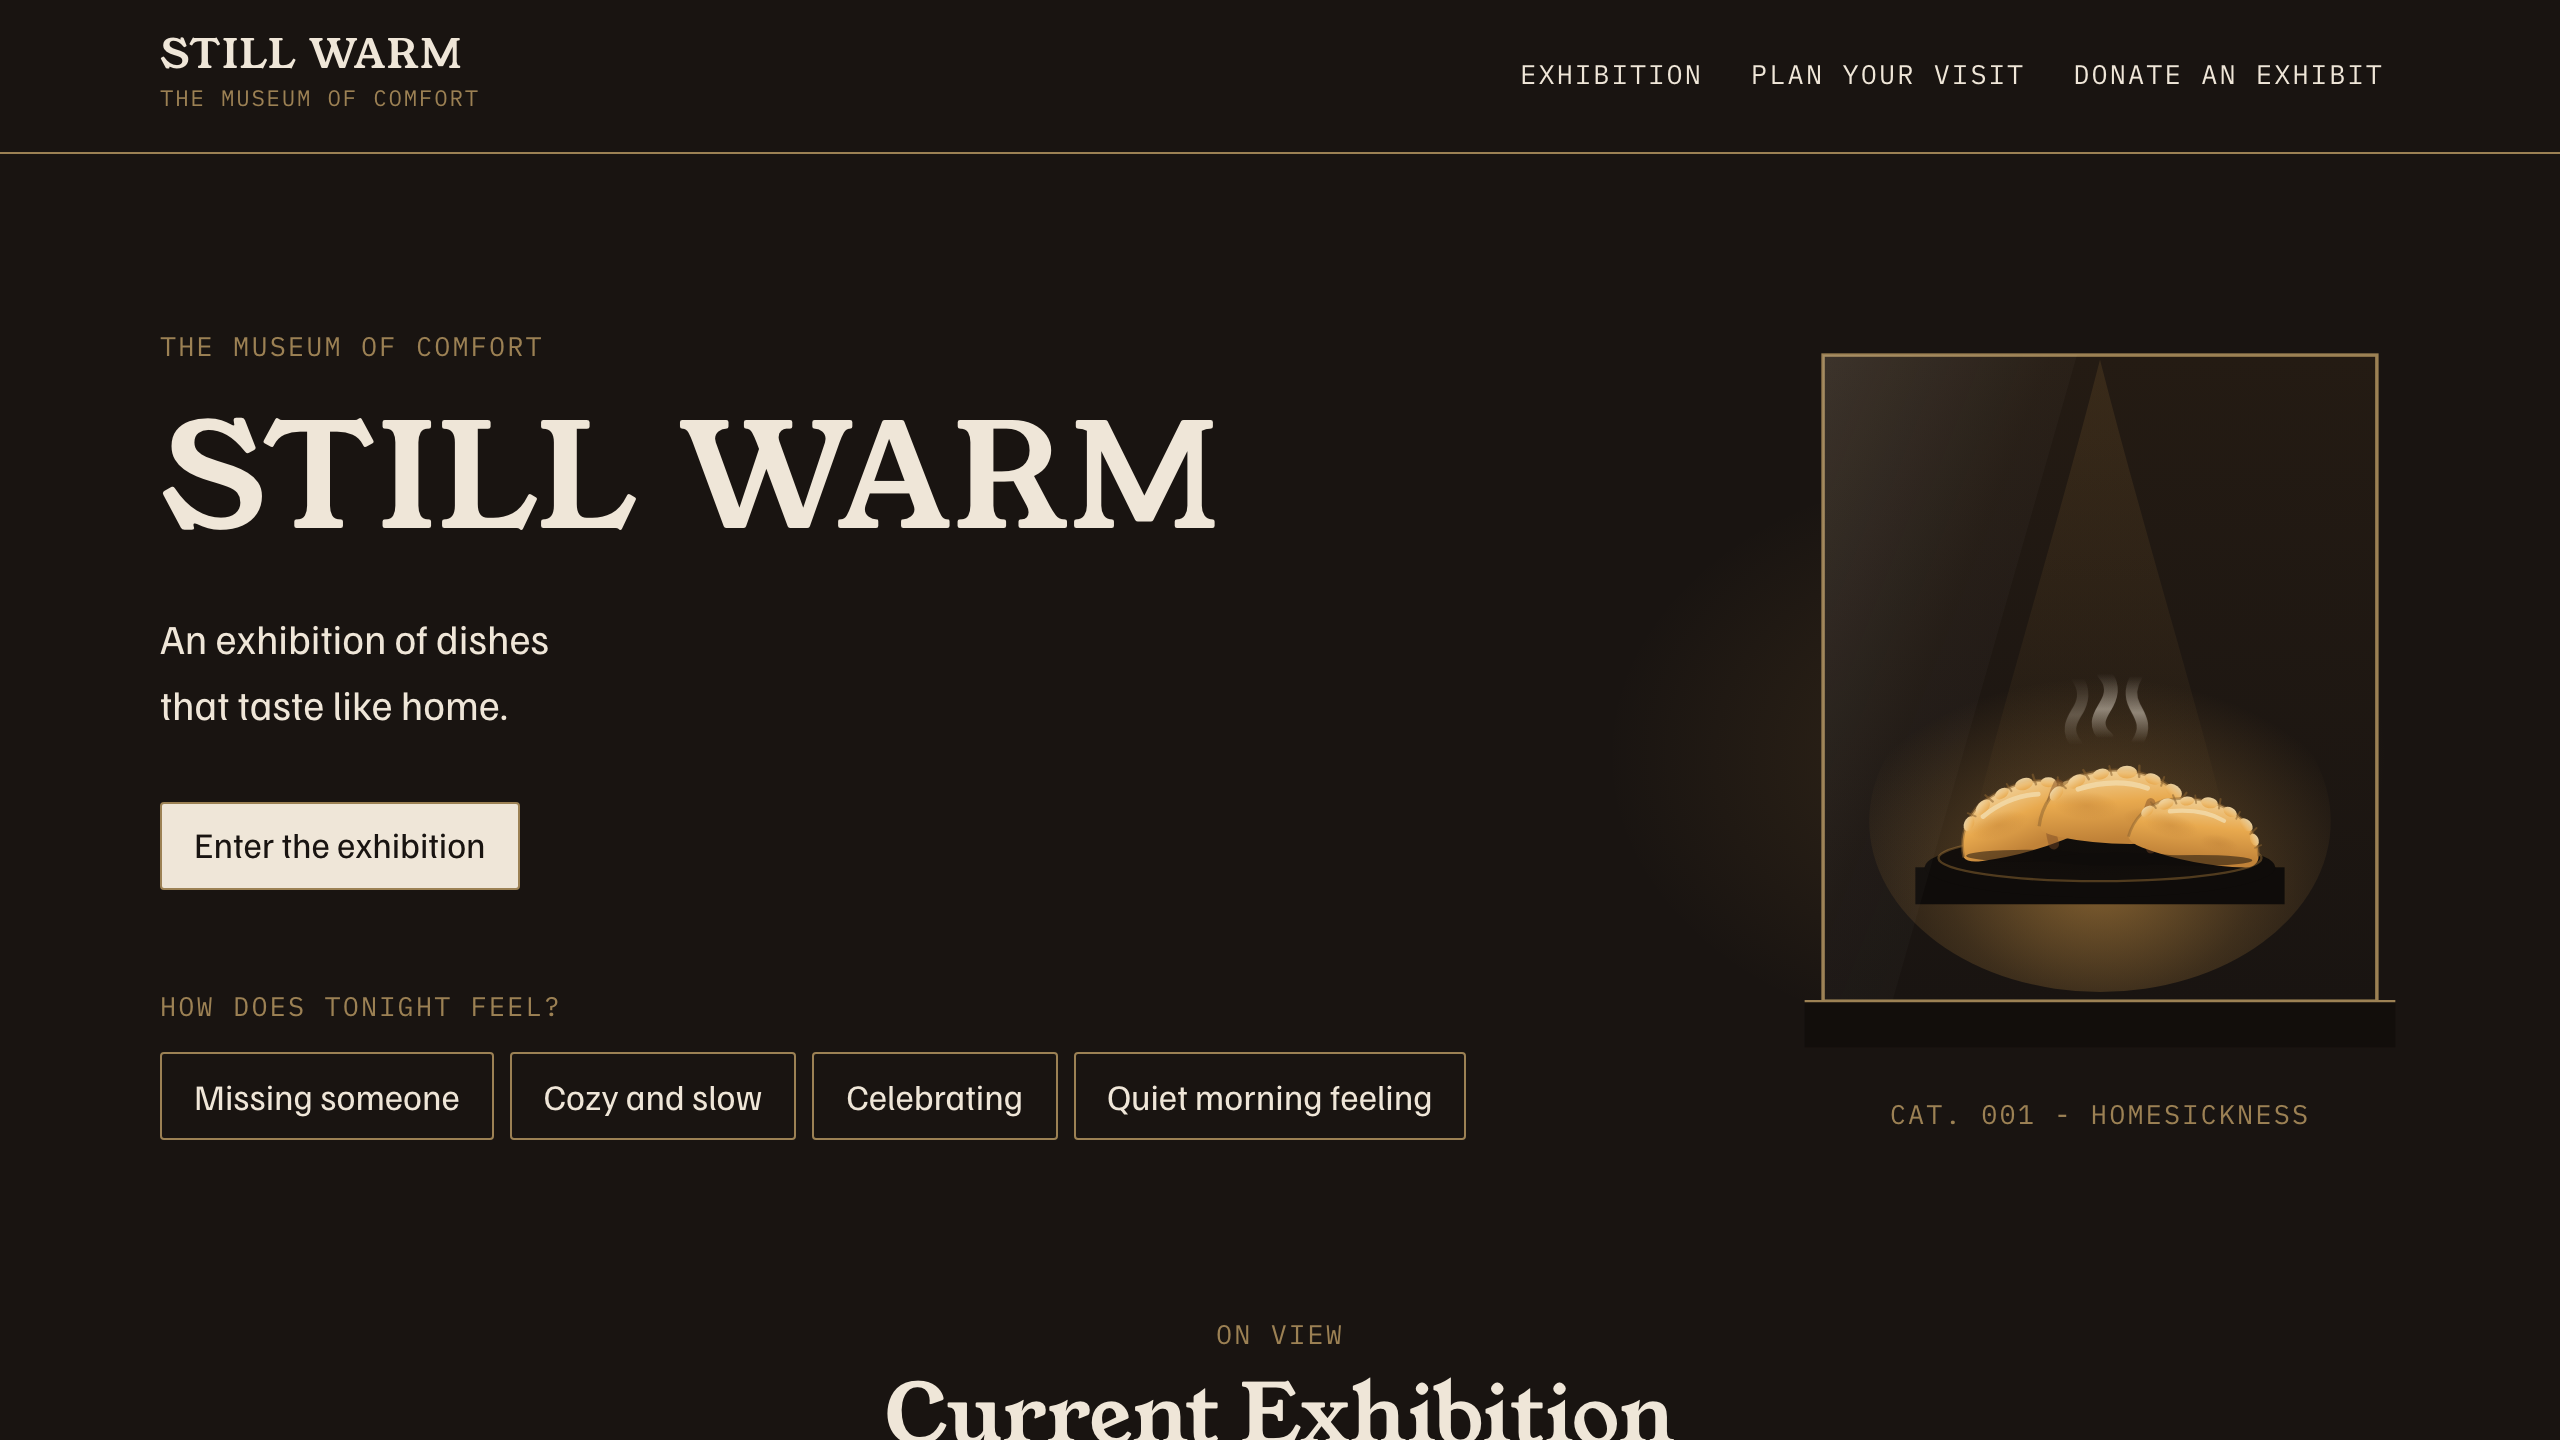
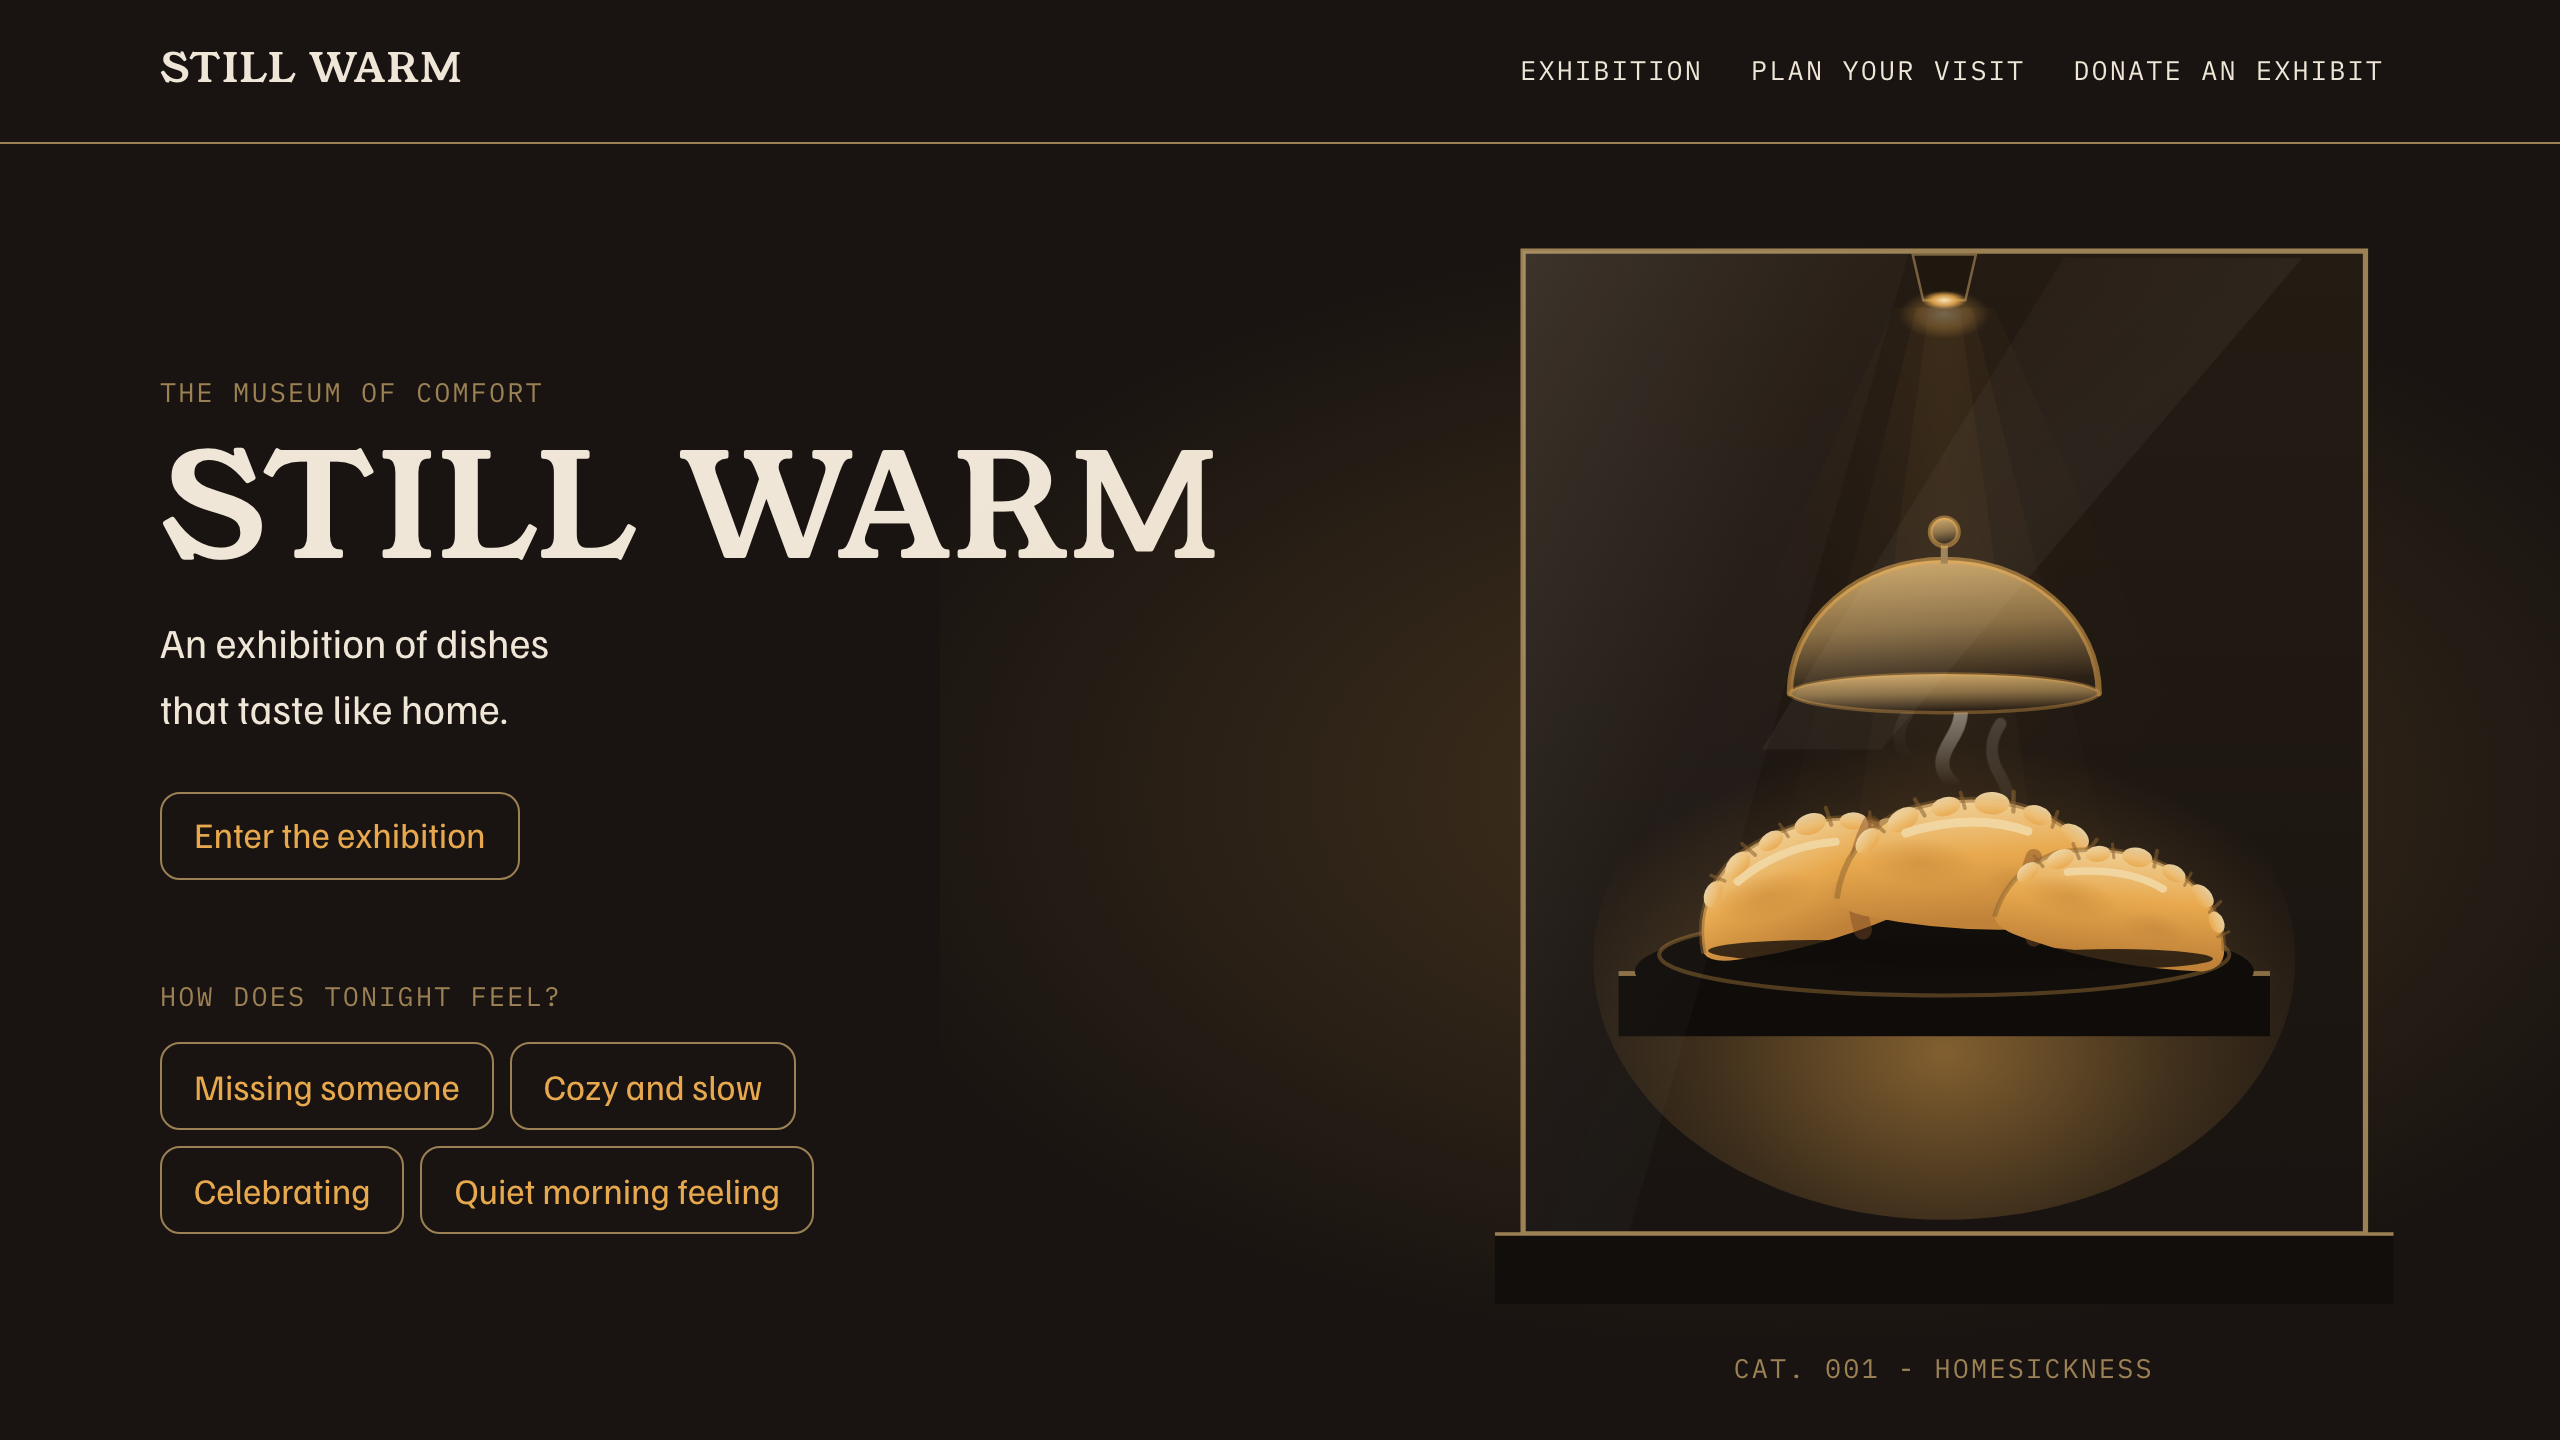
retake the readme numbers

diff --git a/README.md b/README.md
@@ -6,7 +6,7 @@ An exhibition of dishes that taste like home. Walk four rooms, read the labels, 
 
 **[Visit the museum](https://still-warm.boyko-nazar.workers.dev/)**
 
-![The museum's hero: a lit display case holding golden varenyky in a dark gallery](.github/media/cover.png)
+![The museum's hero: a dark gallery, a lit case with its cloche raised over a plate of golden varenyky](.github/media/cover.png)
 
 Built for the DEV Frontend Challenge: Comfort Food Edition (Perfect Landing). Every visitor who donates a memory gets an exhibit generated from their own words, and a postcard to take home.
 
@@ -16,8 +16,11 @@ The source is laid out the way the museum is:
 
 ```
 src/
+  App.tsx          the one page, assembled in room order
+  main.tsx         the door: fonts, tokens, the booklet, the console note
   content/         the exhibition's writing - stories, curator notes, the Ramp,
-                   the donation desk, the room guide. Typed data, never inline.
+                   the donation desk, the room guide, Plan Your Visit and the
+                   staff entrance. Typed data, never inline.
   components/
     layout/        header, footer, container, section headings
     hero/          the display case and "How does tonight feel?"
@@ -34,6 +37,7 @@ src/
   hooks/           entrance state, in-view, scroll position, print expansion
   styles/          tokens, type, fonts, global, steam, print
   utils/           contrast maths, the staff entrance
+  test/            the Vitest setup
   dev/             a reference page of tokens and ratios, dev builds only
 ```
 
@@ -41,27 +45,42 @@ Two rules hold the place together: content lives in `src/content/` as typed data
 
 ## Conservation notes
 
-Accessibility is the first judging criterion, so it is built in rather than audited on:
+Accessibility is the first judging criterion, so it is built in rather than audited on. Everything below was measured against the deployed build.
 
-- **Every claim on Exhibit 000 is verified.** Contrast was measured live from painted pixels across 797 text runs at two viewports - zero AA failures. The keyboard routes through every room in 27 stops. Every label is exposed to a screen reader, including the generated exhibit, whose art is decorative and whose placard carries the description.
-- **Reduced motion ships with the motion**, in the same commit, for all 14 animations - the 13 keyframed ones and the Spotlight Unfold. Body text is byte-identical between modes.
-- **axe runs in CI on every state** - and incompletes have to be empty too, not just violations.
-- **Five browser projects** on every pull request: Chromium, WebKit, Firefox, and mobile Chrome and Safari.
-- Measured on the built site: CLS 0.00 on desktop, mobile and Fast 3G; no main-thread task over 100ms under 4x CPU throttle; Lighthouse accessibility 100.
+- **Contrast is read from painted pixels, not from tokens.** Render a frame, render a second with every glyph transparent, compare: the background behind a text run is then provably the pixels behind it. 586 text runs across two viewports, with the labels open and closed, from 4.74:1 to 14.91:1. Zero AA failures. This is measured rather than declared because declared is not enough: a decorative shadow on a card's foot once took its label to 3.9:1 while axe and Lighthouse both passed it, since neither reads the pixel a shadow leaves behind. That case is now a test.
+- **The keyboard routes through every room in 27 stops**, tab order matching reading order at 1280 and at 390, with a visible focus ring at each one. Every label is exposed to a screen reader, including the generated exhibit, whose art is decorative and whose placard carries the description.
+- **Reduced motion ships with the motion**, in the same commit, for all 14 animations: the 13 keyframed ones and the Spotlight Unfold. Body text is byte-identical between modes.
+- **axe runs in CI on every state** - and the incompletes have to be empty too, not just the violations.
+- **Five browser projects** on every pull request: Chromium, WebKit, Firefox, and mobile Chrome and Safari. 449 end-to-end tests across 19 files, of which 29 are capability-gated skips, plus 127 unit tests.
+- **Measured on the deployed build:** CLS 0.00 on desktop, on mobile and on Fast 3G; under 4x CPU throttling on a Pixel 7 no main-thread block runs past 76ms, and the 95th percentile frame gap is 9ms; Lighthouse accessibility 100, best practices 100 and SEO 100 on both desktop and mobile.
 
 ```bash
 npm run verify   # format, lint, types, unit tests, build
+```
+
+```bash
+npx playwright install   # once, to fetch the browsers
+```
+
+```bash
 npx playwright test   # the five-project end-to-end matrix
 ```
+
+Playwright builds and serves the site itself, so no dev server needs to be running first.
 
 ## Visiting
 
 ```bash
 npm install
+```
+
+```bash
 npm run dev      # the museum on localhost:5173
 ```
 
-Print the page for an exhibition booklet, or open the console for the staff entrance.
+Print the page and you get the catalogue rather than a screenshot of a website: a title page, Exhibit 000, the four rooms with their labels opened for you, and the practical page. Seven sheets at Letter. The header, the donation desk and the footer stay off the paper, and so does every button, because none of them can do anything there.
+
+Open the console for the staff entrance. It is the only thing the page ever logs.
 
 ## Credits
 
